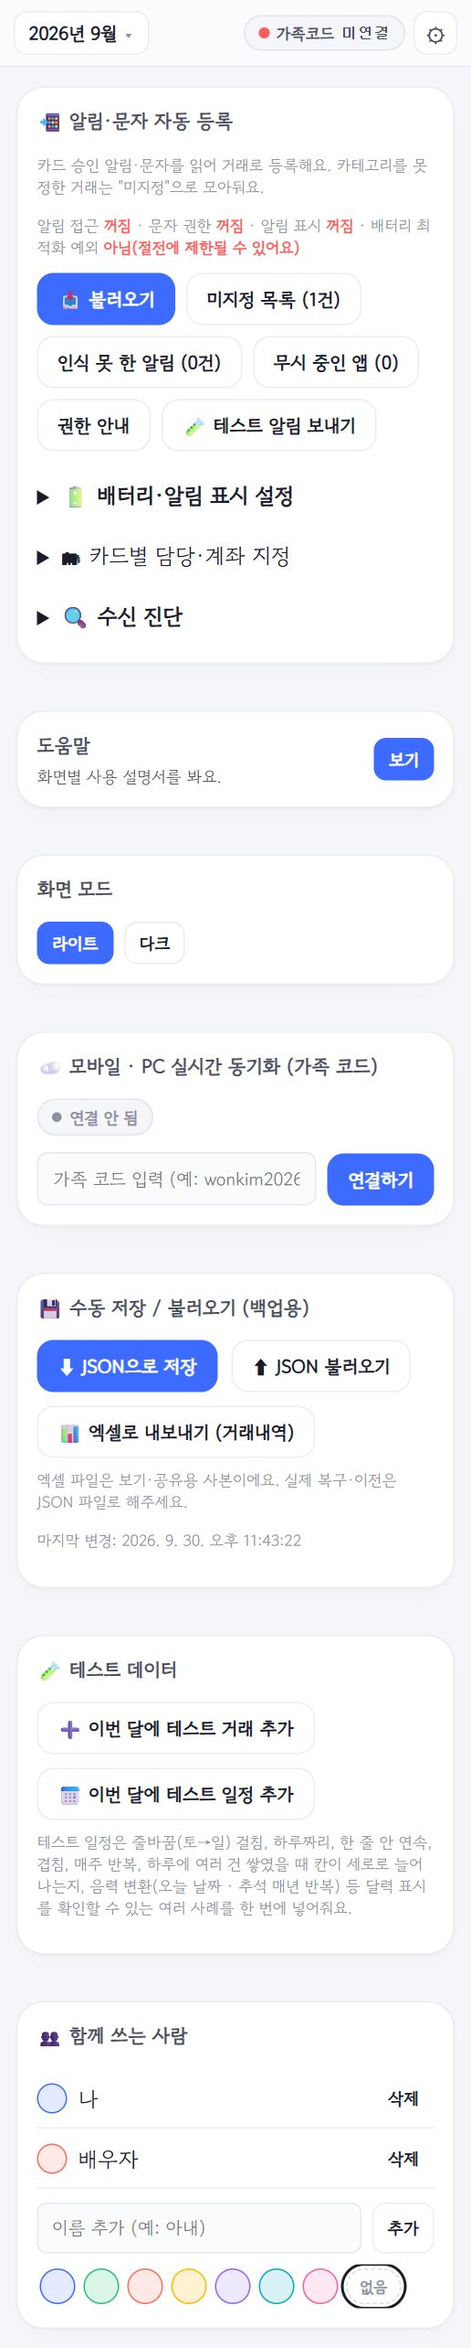
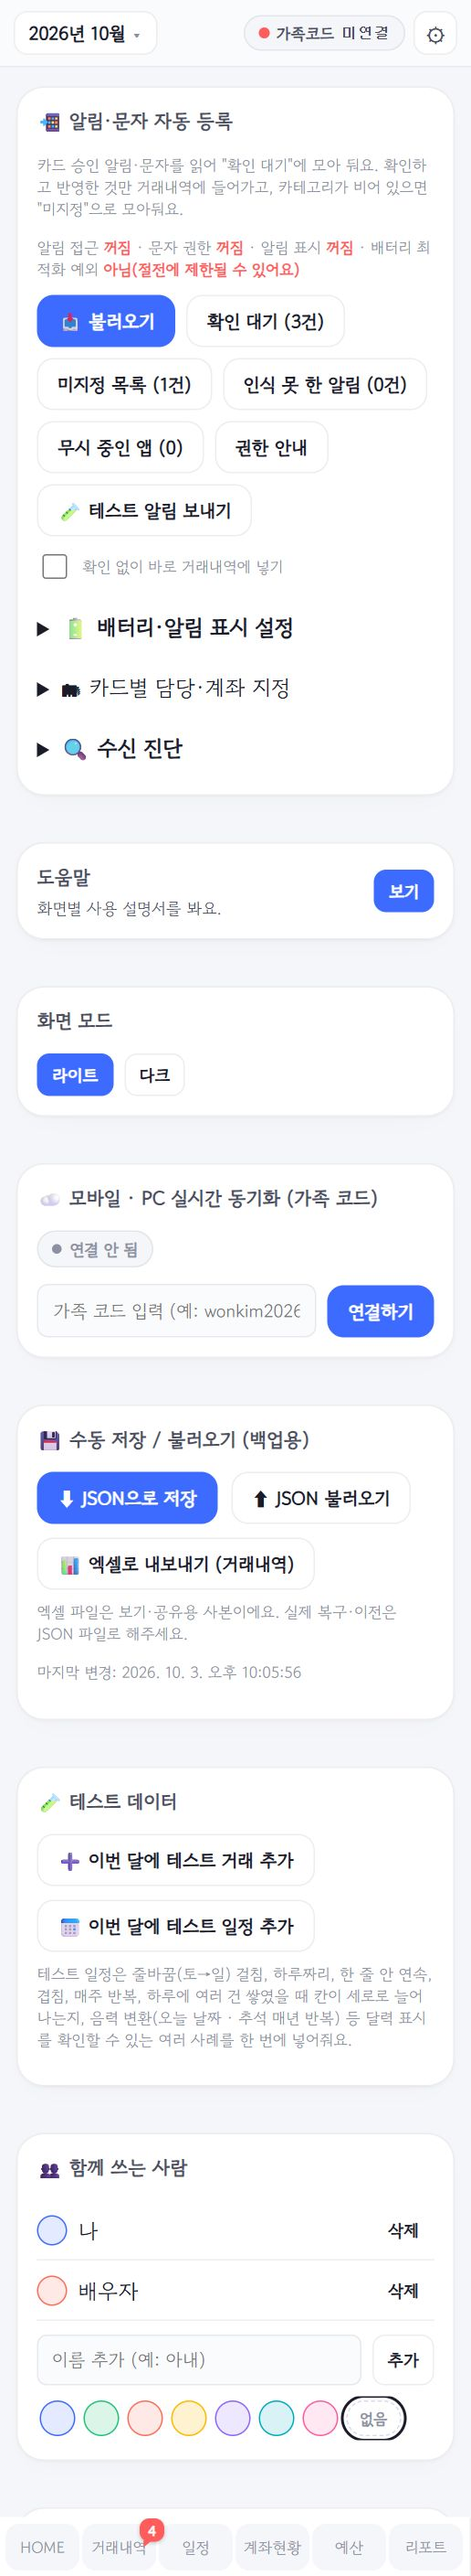
거래 구분 바꾸기 + 도움말에 확인 대기 반영
- 거래 수정 창에서 수입/지출/이체를 바꿀 수 있음. 바꾸면 날짜·금액·메모만 남기고
  대분류·소분류·계좌·담당은 비워서 다시 고르게 함(저장 전에는 원래 거래 그대로)
- 도움말: 확인 대기 목록 화면 추가, 거래 달력·설정·가져오기 결과 화면 갱신

diff --git a/help/help-data.js b/help/help-data.js
@@ -7,10 +7,10 @@
  *   points[]  = { n(번호), x, y(이미지 폭·높이 대비 %; 번호 동그라미의 중심), title, text }
  *
  * 캡처 기준: PC 테스트 하네스, Galaxy Z Fold5 접은 화면(344×882 CSS px), 1.5배로 찍어 폭 516px JPEG.
- * 좌표 잡는 법과 갱신 절차는 .claude/skills/help-manual/SKILL.md 참고.
+ * 좌표 잡는 법과 갱신 절차는 .agents/skills/help-manual/SKILL.md 참고.
  */
 window.GB_HELP_DATA = {
-  version: '2026-09-30',
+  version: '2026-10-03',
   device: 'Galaxy Z Fold5 접은 화면 344×882',
   screens: [
     {
@@ -26,24 +26,24 @@ window.GB_HELP_DATA = {
         { n: 7, x: 7.6, y: 36.7, title: '지출·수입·저축·순자산', text: '선택한 달의 요약이에요. 금액은 가려져 있고, 카드를 누르면 금액이 보여요.' },
         { n: 8, x: 9.0, y: 49.6, title: '수입·지출 추이', text: '최근 3개월·6개월·1년 중 기간을 골라 월별 수입·지출 흐름을 봐요.' },
         { n: 9, x: 60.9, y: 74.8, title: '카테고리 비중', text: '지출/수입 버튼으로 바꿔 가며 대분류별 비중을 도넛 그래프로 봐요.' },
-        { n: 10, x: 56.4, y: 91.8, title: '알림 가져오기', text: '앱 전용 버튼이에요. 카드 승인 알림·문자를 읽어 거래로 한 번에 등록해요. 오른쪽 위 빨간 숫자는 아직 확인하지 않은 건수예요.' },
+        { n: 10, x: 56.4, y: 91.8, title: '알림 가져오기', text: '앱 전용 버튼이에요. 카드 승인 알림·문자를 읽어 "확인 대기"로 가져와요. 확인하고 반영한 것만 거래내역에 들어가요. 오른쪽 위 빨간 숫자는 아직 처리하지 않은 건수예요.' },
         { n: 11, x: 4.1, y: 97.6, title: '하단 메뉴', text: 'HOME·거래내역·일정·계좌현황·예산·리포트로 이동해요. 칸이 좁으면 옆으로 밀어서 봐요.' },
-        { n: 12, x: 19.2, y: 97.6, title: '말풍선 배지', text: '거래내역 위 빨간 말풍선 숫자는 카테고리를 아직 못 정한 "미지정" 거래 수예요.' }
+        { n: 12, x: 19.2, y: 97.6, title: '말풍선 배지', text: '거래내역 위 빨간 말풍선 숫자는 확인 대기·미지정·인식 못 한 알림을 합친 수예요.' }
       ]
     },
     {
       id: 'tx-calendar', tab: '거래 달력', title: '거래내역 — 달력', image: 'img/tx-calendar.jpg',
       desc: '날짜를 누르면 아래에 그날의 거래와 일정이 나타나요.',
       points: [
-        { n: 1, x: 4.7, y: 5.9, title: '달력 / 목록 / 즐겨찾기', text: '거래내역을 보는 방법을 골라요. 넘치면 옆으로 밀어서 봐요.' },
-        { n: 2, x: 57.2, y: 5.9, title: '미지정 칩', text: '카테고리나 계좌를 아직 못 정한 거래 수예요. 누르면 미지정 목록이 열려요(0건이면 숨겨져요).' },
-        { n: 3, x: 91.9, y: 7.1, title: '⋮ 메뉴', text: '문자/카카오톡 붙여넣기, 거래내역 불러오기(엑셀/CSV·표 붙여넣기), 거래내역 내보내기(엑셀)가 있어요.' },
-        { n: 4, x: 57.1, y: 12.3, title: '점 색깔', text: '날짜 칸의 점은 거래 종류예요. 빨강 입금, 파랑 지출, 초록 이체.' },
-        { n: 5, x: 21.9, y: 28.0, title: '날짜 누르기 / 길게 누르기', text: '짧게 누르면 그 날짜를 선택해 아래에 그날 거래가 보여요. 0.5초 길게 누르면 바로 입력 팝업이 열려요. 칸 아래에는 그날 합계, 빨간 글씨는 공휴일이에요.' },
-        { n: 6, x: 9.0, y: 51.3, title: '수입·이체', text: '선택한 날짜에 수입이나 이체를 추가하고, 고른 항목을 수정·삭제해요.' },
-        { n: 7, x: 9.0, y: 66.2, title: '지출·멀티지출', text: '지출을 추가해요. 멀티지출은 여러 건을 한 번에 입력해요.' },
-        { n: 8, x: 5.5, y: 74.3, title: '거래 항목', text: '항목을 눌러 고른 뒤 위의 수정·삭제 버튼을 써요.' },
-        { n: 9, x: 9.0, y: 84.6, title: '그날 일정', text: '일정 화면과 같은 일정이 함께 보여요. 여기서도 추가·수정·삭제할 수 있어요.' }
+        { n: 1, x: 4.7, y: 5.8, title: '달력 / 목록 / 즐겨찾기', text: '거래내역을 보는 방법을 골라요. 넘치면 옆으로 밀어서 봐요.' },
+        { n: 2, x: 56.7, y: 5.8, title: '확인 · 미지정 칩', text: '"확인"은 알림·문자에서 읽었지만 아직 반영하지 않은 거래 수, "미지정"은 카테고리나 계좌를 못 정한 거래 수예요. 누르면 확인 대기 목록(없으면 미지정 목록)이 열려요. 0건이면 숨겨져요.' },
+        { n: 3, x: 91.9, y: 6.9, title: '⋮ 메뉴', text: '문자/카카오톡 붙여넣기, 거래내역 불러오기(엑셀/CSV·표 붙여넣기), 거래내역 내보내기(엑셀)가 있어요.' },
+        { n: 4, x: 61.1, y: 12, title: '점 색깔', text: '날짜 칸의 점은 거래 종류예요. 빨강 입금, 파랑 지출, 초록 이체.' },
+        { n: 5, x: 45.3, y: 28.8, title: '날짜 누르기 / 길게 누르기', text: '짧게 누르면 그 날짜를 선택해 아래에 그날 거래가 보여요. 0.5초 길게 누르면 바로 입력 팝업이 열려요. 칸 아래에는 그날 합계, 빨간 글씨는 공휴일이에요.' },
+        { n: 6, x: 9, y: 48, title: '수입·이체', text: '선택한 날짜에 수입이나 이체를 추가하고, 고른 항목을 수정·삭제해요.' },
+        { n: 7, x: 9, y: 62.6, title: '지출·멀티지출', text: '지출을 추가해요. 멀티지출은 여러 건을 한 번에 입력해요.' },
+        { n: 8, x: 9, y: 72.4, title: '거래 항목', text: '항목을 눌러 고른 뒤 위의 수정·삭제 버튼을 써요.' },
+        { n: 9, x: 9, y: 82.4, title: '그날 일정', text: '일정 화면과 같은 일정이 함께 보여요. 여기서도 추가·수정·삭제할 수 있어요.' }
       ]
     },
     {
@@ -119,22 +119,24 @@ window.GB_HELP_DATA = {
     },
     {
       id: 'settings', tab: '설정', title: '설정', image: 'img/settings.jpg',
-      desc: '자동 등록, 도움말, 화면 모드, 가족코드, 백업 등을 관리해요.',
+      desc: '알림·문자 자동 인식, 도움말, 화면 모드, 가족코드, 백업 등을 관리해요.',
       points: [
-        { n: 1, x: 7.6, y: 4.5, title: '알림·문자 자동 등록', text: '앱 전용이에요. 카드 승인 알림·문자를 읽어 거래로 등록해요. 아래 줄에 권한 상태(켜짐/꺼짐)가 보여요.' },
-        { n: 2, x: 9.0, y: 11.8, title: '불러오기', text: '기간을 골라 알림·문자를 한 번에 가져와요. 결과는 등록·미지정·중복·미인식 4칸으로 보여줘요.' },
-        { n: 3, x: 40.7, y: 11.8, title: '미지정 목록', text: '카테고리나 계좌를 못 정한 거래를 모아 보고 한꺼번에 지정해요.' },
-        { n: 4, x: 9.0, y: 14.5, title: '인식 못 한 알림 / 무시 중인 앱', text: '거래로 읽지 못한 알림을 확인하거나, "다시 받지 않기"한 앱을 되돌려요.' },
-        { n: 5, x: 9.0, y: 17.3, title: '권한 안내 / 테스트 알림', text: '필요한 권한을 다시 안내하고, 테스트 알림으로 자동 등록이 되는지 확인해요.' },
-        { n: 6, x: 9.0, y: 20.1, title: '접힌 메뉴', text: '▶ 를 누르면 배터리·알림 표시 설정, 카드별 담당·계좌 지정, 수신 진단이 펼쳐져요.' },
-        { n: 7, x: 80.6, y: 31.7, title: '도움말', text: '지금 보고 있는 이 화면별 설명서를 열어요.' },
-        { n: 8, x: 7.6, y: 37.2, title: '화면 모드', text: '라이트/다크 모드를 바꿔요.' },
-        { n: 9, x: 9.0, y: 49.3, title: '가족코드 연결', text: '같은 가족코드를 입력한 기기끼리 실시간으로 같은 가계부를 봐요. 가입은 필요 없고, 남이 추측하기 어려운 코드를 쓰세요.' },
-        { n: 10, x: 9.0, y: 57.2, title: '백업', text: 'JSON으로 저장하면 파일로 보관하고, 나중에 JSON 불러오기로 되살려요. 엑셀은 보기용 사본이라 되돌려 불러올 수 없어요.' },
-        { n: 11, x: 9.0, y: 72.6, title: '테스트 데이터', text: '화면 확인용 예시 거래·일정을 이번 달에 넣어요. 확인 후에는 직접 지워주세요.' },
-        { n: 12, x: 9.0, y: 86.4, title: '함께 쓰는 사람', text: '거래·일정의 "담당"으로 고를 사람을 추가하거나 지워요. 이름을 적고 아래에서 색을 고른 뒤 "추가"를 눌러요.' },
-        { n: 13, x: 9.0, y: 88.9, title: '담당자 색 점', text: '이름 앞 동그라미가 그 사람의 색이에요. 색 점이나 이름을 누르면 이름과 색을 바꾸는 창이 열려요. 정한 색은 HOME 최근 거래의 행 바탕에 보여요.' },
-        { n: 14, x: 9.0, y: 96.7, title: '색 고르기', text: '새로 추가할 사람의 색을 추천 7가지 중에서 골라요. "없음"을 고르면 색 없이 추가돼요.' }
+        { n: 1, x: 9, y: 4.4, title: '알림·문자 자동 인식', text: '앱 전용이에요. 카드 승인 알림·문자를 읽어 "확인 대기"에 모아 둬요. 아래 줄에 권한 상태(켜짐/꺼짐)가 보여요.' },
+        { n: 2, x: 9, y: 11.7, title: '불러오기', text: '기간을 골라 알림·문자를 한 번에 가져와요. 가져온 거래도 확인 대기로 가요. 결과는 확인 대기·미지정·중복·미인식 4칸으로 보여줘요.' },
+        { n: 3, x: 40.7, y: 11.7, title: '확인 대기', text: '알림·문자에서 읽었지만 아직 거래내역에 넣지 않은 거래예요. 열어서 반영하거나 삭제해요.' },
+        { n: 4, x: 9, y: 14.1, title: '미지정 목록', text: '반영은 했지만 카테고리나 계좌를 못 정한 거래를 모아 보고 한꺼번에 지정해요.' },
+        { n: 5, x: 48.5, y: 14.1, title: '인식 못 한 알림 / 무시 중인 앱', text: '거래로 읽지 못한 알림을 확인하거나, "다시 받지 않기"한 앱을 되돌려요.' },
+        { n: 6, x: 46.8, y: 16.6, title: '권한 안내 / 테스트 알림', text: '필요한 권한을 다시 안내하고, 테스트 알림으로 알림 인식이 되는지 확인해요.' },
+        { n: 7, x: 9, y: 21.3, title: '확인 없이 바로 거래내역에 넣기', text: '체크하면 확인 대기를 거치지 않고 예전처럼 바로 거래내역에 넣어요. 기본은 꺼져 있어요(확인 후 반영).' },
+        { n: 8, x: 9, y: 24.2, title: '접힌 메뉴', text: '▶ 를 누르면 배터리·알림 표시 설정, 카드별 담당·계좌 지정, 수신 진단이 펼쳐져요.' },
+        { n: 9, x: 80.6, y: 33.9, title: '도움말', text: '지금 보고 있는 이 화면별 설명서를 열어요.' },
+        { n: 10, x: 9, y: 39.3, title: '화면 모드', text: '라이트/다크 모드를 바꿔요.' },
+        { n: 11, x: 9, y: 46.2, title: '가족코드 연결', text: '같은 가족코드를 입력한 기기끼리 실시간으로 같은 가계부를 봐요. 가입은 필요 없고, 남이 추측하기 어려운 코드를 쓰세요.' },
+        { n: 12, x: 9, y: 55.5, title: '백업', text: 'JSON으로 저장하면 파일로 보관하고, 나중에 JSON 불러오기로 되살려요. 엑셀은 보기용 사본이라 되돌려 불러올 수 없어요.' },
+        { n: 13, x: 9, y: 69.6, title: '테스트 데이터', text: '화면 확인용 예시 거래·일정을 이번 달에 넣어요. 확인 후에는 직접 지워주세요.' },
+        { n: 14, x: 9, y: 83.8, title: '함께 쓰는 사람', text: '거래·일정의 "담당"으로 고를 사람을 추가하거나 지워요. 이름을 적고 아래에서 색을 고른 뒤 "추가"를 눌러요.' },
+        { n: 15, x: 11, y: 86.6, title: '담당자 색 점', text: '이름 앞 동그라미가 그 사람의 색이에요. 색 점이나 이름을 누르면 이름과 색을 바꾸는 창이 열려요. 정한 색은 HOME 최근 거래의 행 바탕에 보여요.' },
+        { n: 16, x: 9, y: 93.9, title: '색 고르기', text: '새로 추가할 사람의 색을 추천 7가지 중에서 골라요. "없음"을 고르면 색 없이 추가돼요.' }
       ]
     },
     {
@@ -159,18 +161,32 @@ window.GB_HELP_DATA = {
     },
     {
       id: 'popup-import-result', tab: '가져오기 결과', title: '알림 가져오기 결과', image: 'img/popup-import-result.jpg',
-      desc: '알림 가져오기가 끝나면 결과를 4칸으로 보여줘요.',
+      desc: '알림 가져오기·불러오기가 끝나면 결과를 4칸으로 보여줘요. 숫자 칸을 누르면 그 목록이 열려요.',
       points: [
-        { n: 1, x: 11.9, y: 64.5, title: '등록', text: '거래로 등록된 건수예요.' },
-        { n: 2, x: 54.4, y: 64.5, title: '미지정', text: '등록은 됐지만 카테고리나 계좌를 못 정한 건수예요. 누르면 미지정 목록이 열려요.' },
-        { n: 3, x: 11.9, y: 82.4, title: '중복', text: '이미 있는 거래라 빼고 넘어간 건수예요.' },
-        { n: 4, x: 54.4, y: 82.4, title: '미인식', text: '거래로 읽지 못한 알림 수예요. 누르면 목록에서 직접 확인하거나 수동 등록해요.' },
-        { n: 5, x: 82.0, y: 55.6, title: '닫기', text: '결과 창을 닫아요.' }
+        { n: 1, x: 11.3, y: 64.2, title: '확인 대기', text: '새로 읽어 온 거래 수예요. 아직 거래내역에는 안 들어갔어요. 누르면 확인 대기 목록이 열려 반영하거나 삭제해요.' },
+        { n: 2, x: 53.8, y: 64.2, title: '미지정', text: '카테고리나 계좌를 못 정한 거래 수예요. 누르면 미지정 목록이 열려요.' },
+        { n: 3, x: 11.3, y: 82, title: '중복', text: '이미 있거나 이미 처리한(삭제 포함) 알림이라 빼고 넘어간 건수예요.' },
+        { n: 4, x: 53.8, y: 82, title: '미인식', text: '거래로 읽지 못한 알림 수예요. 누르면 목록에서 직접 확인하거나 수동 등록해요.' },
+        { n: 5, x: 86.5, y: 57.7, title: '닫기', text: '결과 창을 닫아요.' }
+      ]
+    },
+    {
+      id: 'popup-review', tab: '확인 대기', title: '확인 대기 목록', image: 'img/popup-review.jpg',
+      desc: '알림·문자에서 읽은 거래는 먼저 여기에 모여요. 반영한 것만 거래내역에 들어가요. 거래내역의 "확인" 칩, 결과 창의 확인 대기 칸, 설정의 확인 대기 버튼으로 열어요.',
+      points: [
+        { n: 1, x: 10.1, y: 6.5, title: '확인 대기', text: '아직 거래내역에 넣지 않은 거래예요. 반영하기 전에는 거래내역·달력·통계·잔액에 영향이 없어요.' },
+        { n: 2, x: 12.1, y: 22.7, title: '전체 선택', text: '목록 전체를 한 번에 고르거나 풀어요. 오른쪽에 고른 개수가 보여요.' },
+        { n: 3, x: 10.1, y: 39.3, title: '한 줄 — 고르기 / 펼치기', text: '체크박스로 하나씩 골라요. 줄을 누르면 펼쳐져 대분류·소분류·계좌를 고친 뒤 그 거래만 "반영" 또는 "삭제"할 수 있어요.' },
+        { n: 4, x: 33.5, y: 43.0, title: '추정 분류', text: '전에 입력한 거래를 보고 짐작한 대분류예요. 못 정하면 "분류 없음"으로 보여요. 분류 없이 반영하면 미지정 목록으로 가요.' },
+        { n: 5, x: 12.1, y: 69.5, title: '대분류·소분류·계좌', text: '고른 거래에 한꺼번에 넣을 값을 정해요. 비워 두면 각 거래의 원래 값으로 반영돼요.' },
+        { n: 6, x: 12.1, y: 78.2, title: '선택 반영', text: '고른 거래를 거래내역에 넣어요.' },
+        { n: 7, x: 68.5, y: 78.5, title: '선택 삭제', text: '고른 거래를 거래내역에 넣지 않고 지워요. 지운 알림은 다시 가져와도 올라오지 않아요.' },
+        { n: 8, x: 83.2, y: 92.5, title: '닫기', text: '목록을 닫아요. 남은 거래는 그대로 확인 대기에 있어요.' }
       ]
     },
     {
       id: 'popup-pending', tab: '미지정', title: '미지정 거래 목록', image: 'img/popup-pending.jpg',
-      desc: '미지정 칩이나 결과 창의 미지정 칸을 누르면 열려요.',
+      desc: '확인 대기 거래가 없을 때 미지정 칩을 누르거나, 결과 창의 미지정 칸·설정의 미지정 목록을 누르면 열려요.',
       points: [
         { n: 1, x: 12.1, y: 36.4, title: '전체 선택', text: '목록 전체를 한 번에 고르거나 풀어요. 오른쪽에 고른 개수가 보여요.' },
         { n: 2, x: 90.0, y: 41.5, title: '개별 선택 / 개별 편집', text: '체크박스로 하나씩 골라요. 줄을 누르면 아래에 개별 편집이 펼쳐져 저장·삭제할 수 있어요.' },

diff --git a/index.html b/index.html
@@ -260,6 +260,11 @@
   .tx-modal-fav-item b { display:block; font-size:12.5px; }
   .tx-modal-fav-item .muted-small { font-size:11px; }
   .tx-modal-form { flex:1; min-width:0; }
+  /* 10차: 거래 수정 시 구분(수입/지출/이체) 바꾸기 */
+  .tx-type-switch { display:flex; gap:6px; margin:-2px 0 12px; }
+  .tx-type-switch button { flex:1; min-height:38px; padding:6px 0; border:1px solid var(--border); border-radius:10px; background:var(--surface); color:var(--text-secondary); font-size:14px; font-weight:700; cursor:pointer; }
+  .tx-type-switch button.active { border-color:var(--series-1); background:var(--series-1); color:#fff; }
+  .tx-convert-note { margin:0 0 12px; padding:9px 11px; border-radius:10px; background:rgba(61,107,255,.08); color:var(--text-primary); font-size:13px; line-height:1.5; }
   @media (max-width:760px){
     .tx-modal-layout { flex-direction:column; }
     .tx-modal-favs { width:100%; border-right:none; border-bottom:1px solid var(--border); padding-right:0; padding-bottom:10px; max-height:160px; }
@@ -1746,6 +1751,7 @@ let scheduleOwnerFilter = new Set();
 let scheduleOwnerFilterOpen = false;
 /* 달력에서 여는 수입/이체/지출 입력 팝업의 현재 상태 */
 let txModalType = null;
+let txModalConvert = null;   // 10차: 수정 중 구분을 바꿨으면 { fromType, date, amount, memo }
 let txModalEditingId = null;
 /* 설정 화면 "카테고리 관리"의 현재 선택 상태 (저장되지 않는 화면 전용 상태) */
 let catManagerType = 'expense';
@@ -4639,11 +4645,20 @@ function focusNextTxField(currentId){
     if (nextEl) nextEl.focus();
   }
 }
-function openTxEntryModal(type, dateStr, editingId){
+/* opts.convert = { fromType, date, amount, memo } : 수정 중에 구분(수입/지출/이체)을 바꿔 다시 연 경우.
+   날짜·금액·메모는 이어받고, 대분류/소분류(이체는 받는 계좌)·계좌·담당·속성은 비워서 다시 고르게 한다. */
+function openTxEntryModal(type, dateStr, editingId, opts){
   txModalType = type;
   txModalEditingId = editingId || null;
   const editing = editingId ? state.transactions.find(x=>x.id===editingId) : null;
-  const titleText = type + ' 입력';
+  const convert = (editing && opts && opts.convert && opts.convert.fromType !== type) ? opts.convert : null;
+  txModalConvert = convert;
+  const titleText = type + (editing ? ' 수정' : ' 입력');
+  const typeSwitchHtml = editing ? `
+        <div class="tx-type-switch" role="radiogroup" aria-label="구분 바꾸기">
+          ${['수입','지출','이체'].map(k=>`<button type="button" data-tx-convert="${k}" class="${k===type?'active':''}" aria-pressed="${k===type}">${k}</button>`).join('')}
+        </div>
+        ${convert ? `<p class="tx-convert-note">${escapeHtml(convert.fromType)} → ${escapeHtml(type)}(으)로 바꾸는 중이에요. ${type==='이체'?'받는 계좌·보내는 계좌':'대분류·소분류·계좌'}·담당을 다시 골라 주세요.</p>` : ''}` : '';
 
   document.getElementById('modal-box').classList.add('modal-wide');
   openModal(`
@@ -4654,6 +4669,7 @@ function openTxEntryModal(type, dateStr, editingId){
       </div>
       <div class="tx-modal-form">
         <h3>${escapeHtml(titleText)}</h3>
+        ${typeSwitchHtml}
         <div class="field"><label>날짜</label><input type="date" id="pop-date"></div>
         <div class="field"><label id="pop-category-label">${type==='이체'?'받는 계좌':'대분류'}</label><select id="pop-category"></select></div>
         <div class="field" id="pop-subcat-field" style="${type==='이체'?'display:none':''}"><label id="pop-subcat-label">소분류</label><select id="pop-subcat"><option value="">(선택 안함)</option></select></div>
@@ -4732,7 +4748,21 @@ function openTxEntryModal(type, dateStr, editingId){
     if (el) el.addEventListener('change', ()=> focusNextTxField(id));
   });
 
-  if (editing){
+  if (convert){
+    // 구분을 바꿨으면 이어받을 것(날짜·금액·메모)만 채우고, 나머지는 '선택' 상태로 비운다
+    const catSel = document.getElementById('pop-category');
+    catSel.insertAdjacentHTML('afterbegin', `<option value="">(${type==='이체'?'받는 계좌':'대분류'} 선택)</option>`);
+    catSel.value = '';
+    if (type!=='이체') populateSubCategorySelect(document.getElementById('pop-subcat'), '');
+    document.getElementById('pop-account').value = '';
+    const ownerSel = document.getElementById('pop-owner');
+    ownerSel.insertAdjacentHTML('afterbegin', '<option value="">(담당 선택)</option>');
+    ownerSel.value = '';
+    document.getElementById('pop-date').value = convert.date || editing.date;
+    document.getElementById('pop-amount').value = convert.amount || fmtMoneyInput(editing.amount);
+    document.getElementById('pop-memo').value = convert.memo != null ? convert.memo : (editing.memo || '');
+    document.getElementById('pop-fixedvar').value = fixedVarOptionsForType(type)[0];
+  } else if (editing){
     document.getElementById('pop-date').value = editing.date;
     document.getElementById('pop-category').value = type==='이체' ? (editing.toAccountId||'') : editing.category;
     if (type!=='이체'){ populateSubCategorySelect(document.getElementById('pop-subcat'), editing.category); document.getElementById('pop-subcat').value = editing.subCategory || ''; }
@@ -4747,6 +4777,17 @@ function openTxEntryModal(type, dateStr, editingId){
   }
 
   renderPopFavList(type);
+
+  // 구분 바꾸기: 지금 입력한 날짜·금액·메모를 들고 새 구분으로 다시 연다(저장은 '수정 완료'를 눌러야 됨)
+  document.querySelectorAll('#modal-box [data-tx-convert]').forEach(btn=>{
+    btn.onclick = ()=>{
+      const next = btn.dataset.txConvert;
+      if (next === type) return;
+      const carry = { fromType: editing.type, date: document.getElementById('pop-date').value,
+        amount: document.getElementById('pop-amount').value, memo: document.getElementById('pop-memo').value };
+      openTxEntryModal(next, carry.date, editingId, next === editing.type ? null : { convert: carry });
+    };
+  });
 
   document.getElementById('pop-close').onclick = closeModal;
   if (editingId){
@@ -4789,11 +4830,22 @@ function submitPopForm(){
   const subCategory = txModalType!=='이체' ? document.getElementById('pop-subcat').value : '';
   const fixedVar = document.getElementById('pop-fixedvar').value;
   const excludeStat = POP_FIXEDVAR_EXCLUDE_VALUES.includes(fixedVar);
+  if (txModalEditingId && txModalConvert){
+    // 구분을 바꾼 경우: 비워 둔 항목을 다시 골랐는지 확인
+    if (txModalType!=='이체' && !categorySelVal){ alert('대분류를 선택해주세요.'); return false; }
+    if (state.members.length && !owner){ alert('담당을 선택해주세요.'); return false; }
+  }
   const result = buildTxPayload({date, type:txModalType, categorySelVal, amount, accountId, owner, memo, fixedVar, subCategory, excludeStat});
   if (result.error){ alert(result.error); return false; }
   if (txModalEditingId){
     const t = state.transactions.find(x=>x.id===txModalEditingId);
     Object.assign(t, result.payload);
+    if (txModalConvert){
+      // 다른 구분 목록에 선택 표시가 남지 않게
+      if (calSelectedIncomeTxId===t.id) calSelectedIncomeTxId = null;
+      if (calSelectedExpenseTxId===t.id) calSelectedExpenseTxId = null;
+      txModalConvert = null;
+    }
   } else {
     const instOnEl = document.getElementById('pop-installment-on');
     if (instOnEl && instOnEl.checked){
